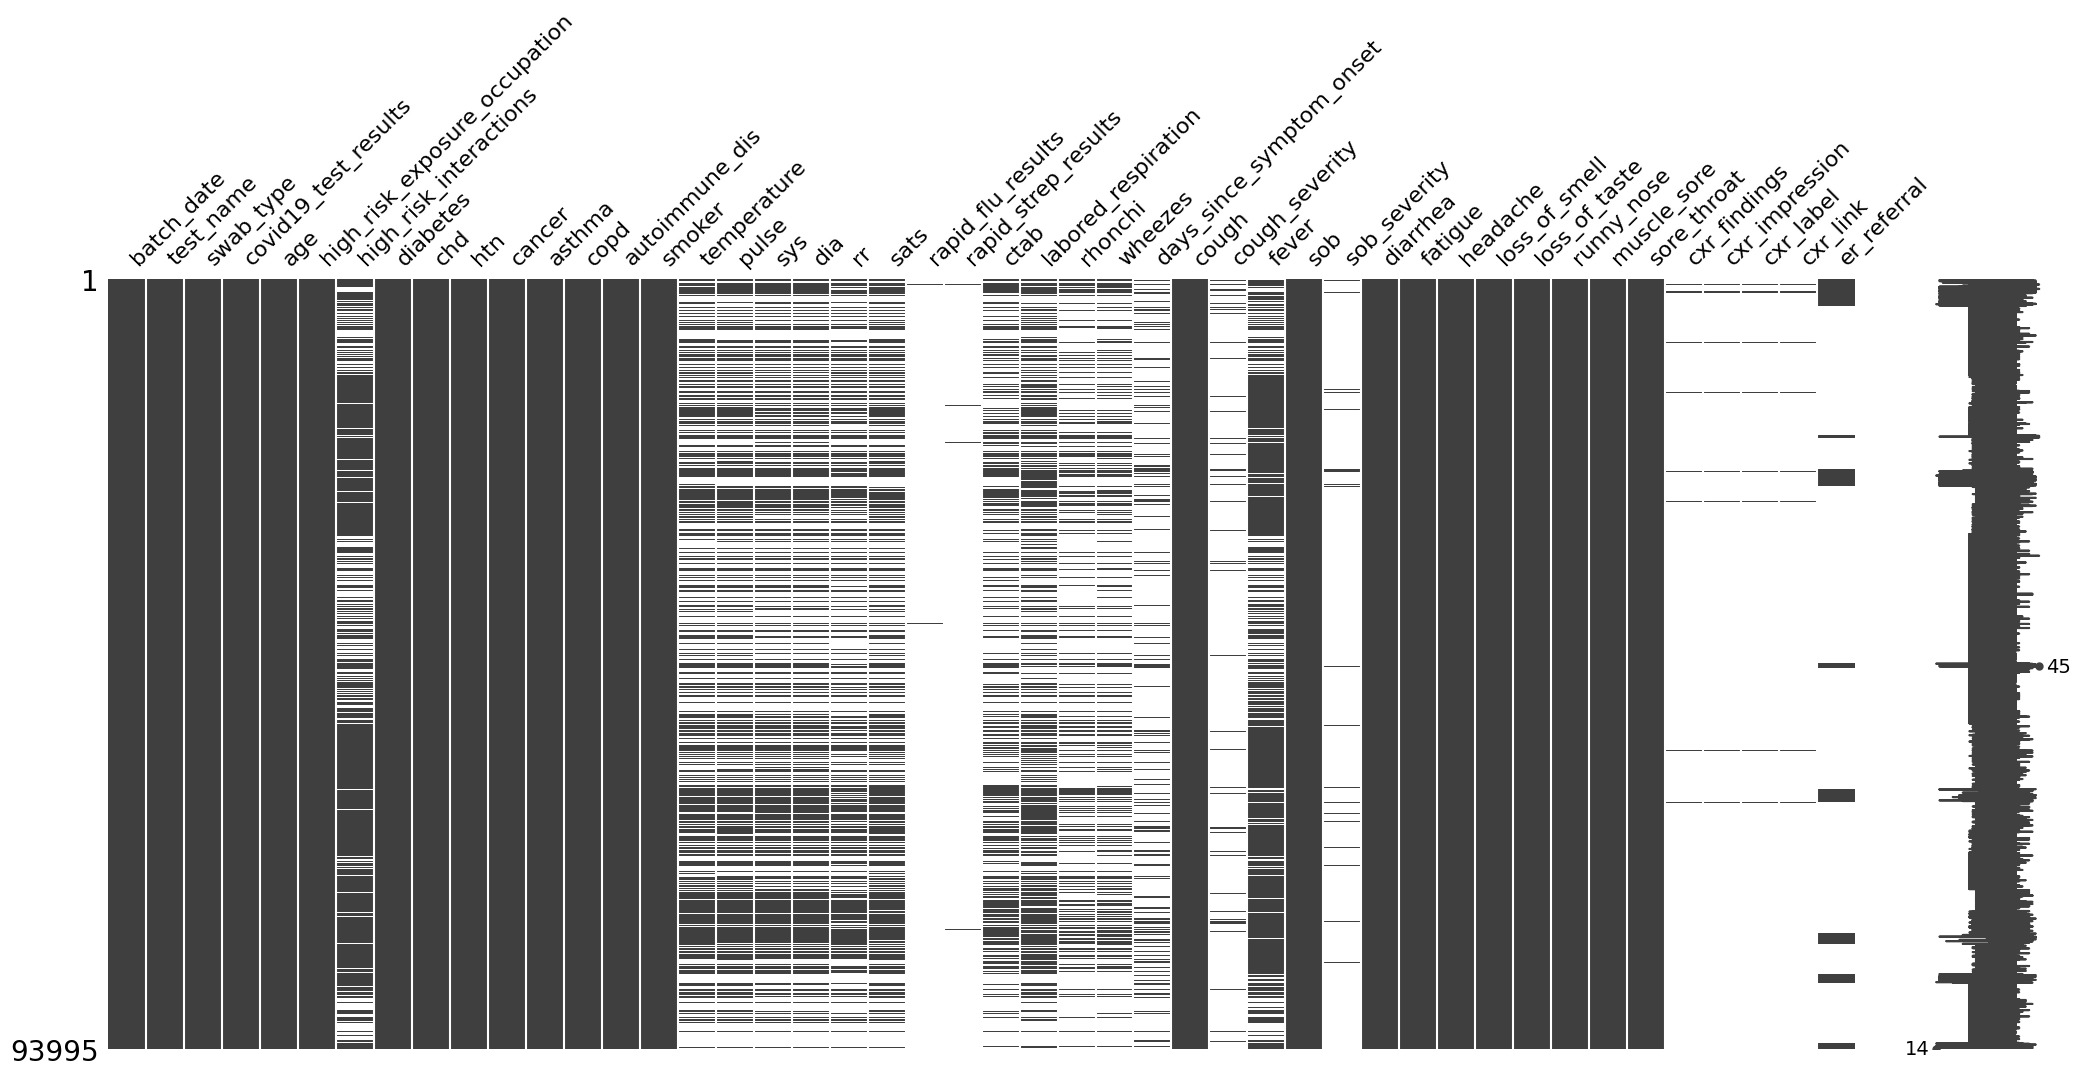
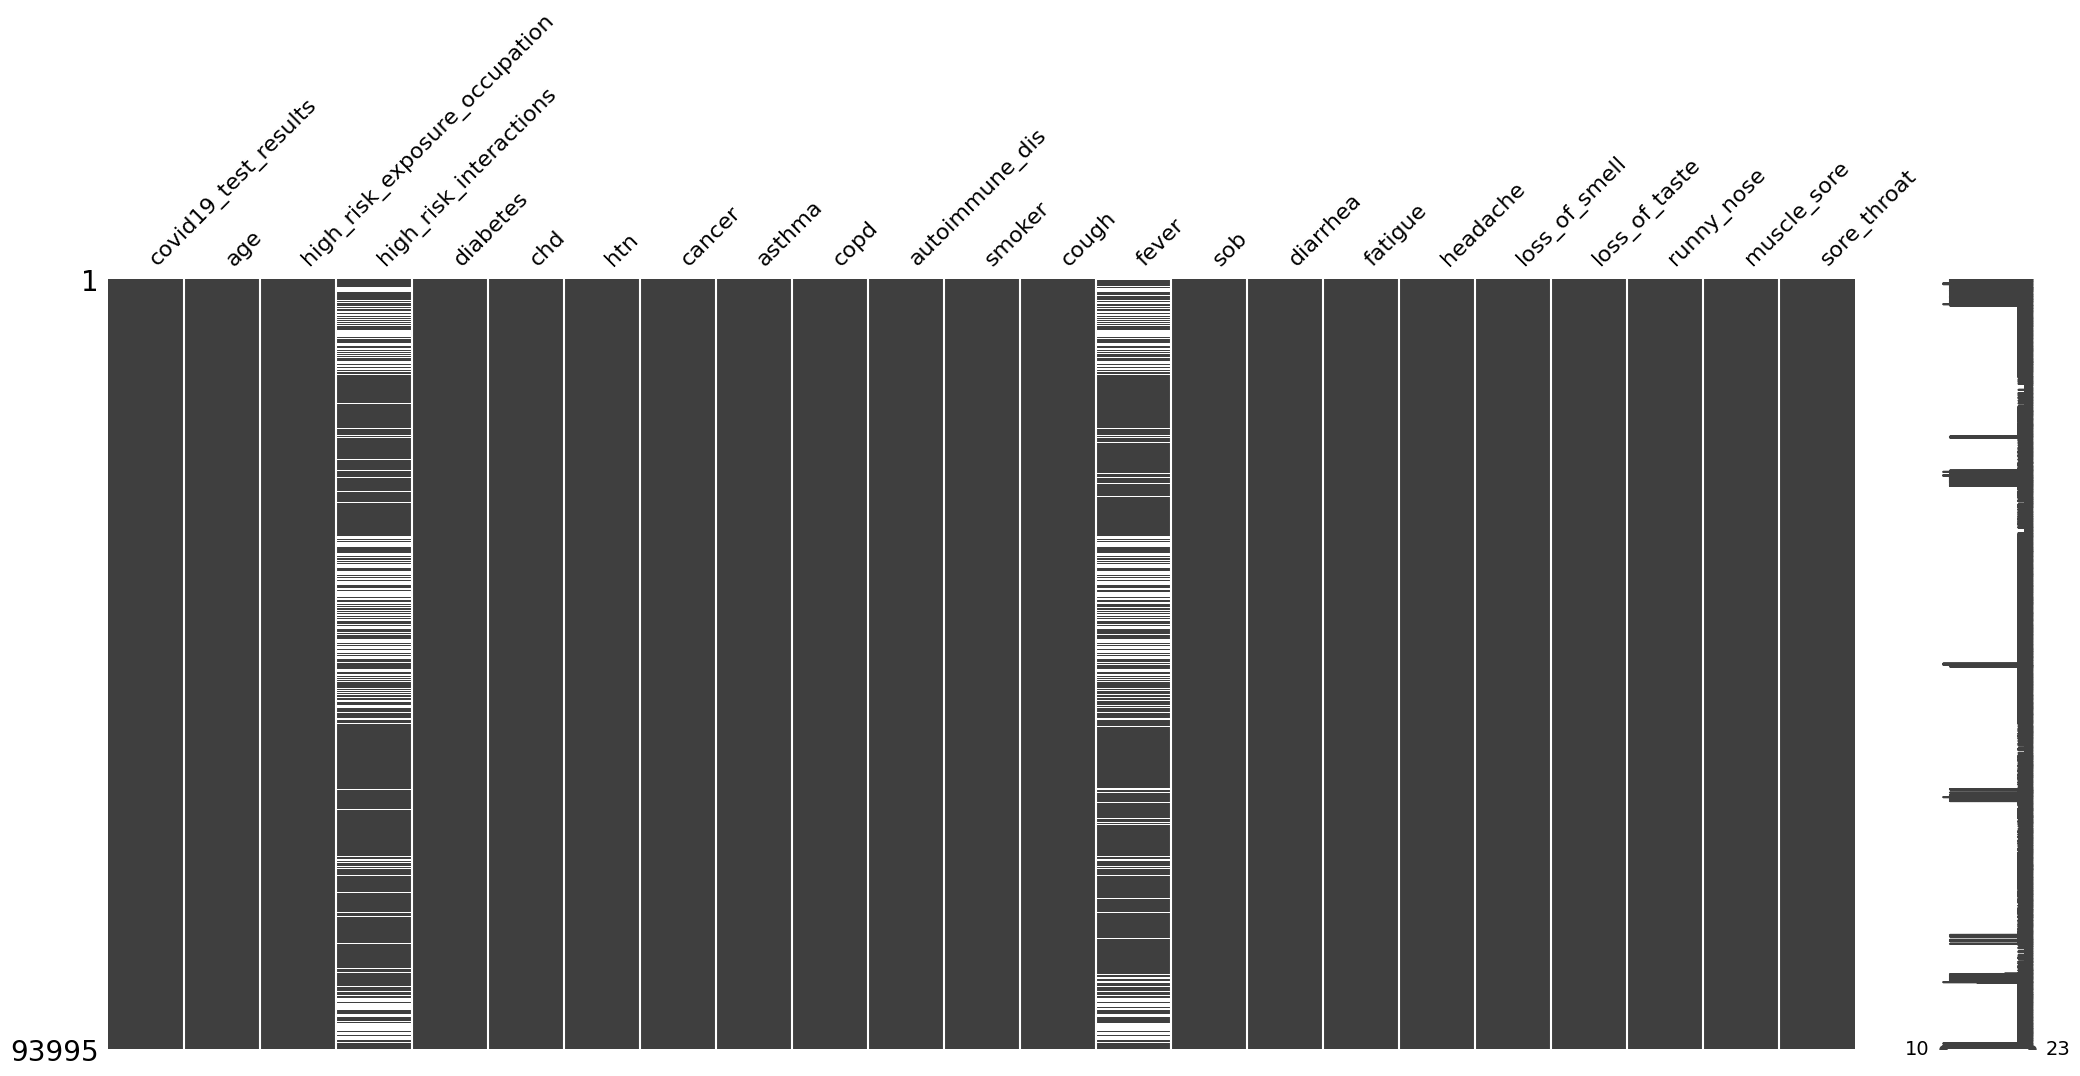
cleaning roughly complete

diff --git a/process-ultimate.py b/process-ultimate.py
@@ -5,57 +5,114 @@ import pandas as pd
 import re
 import numpy as np
 import missingno as msno
-import nltk
 from imblearn.under_sampling import RandomUnderSampler
-from nltk.corpus import stopwords
-from nltk.tokenize import RegexpTokenizer
-from nltk.tokenize import word_tokenize
-from nltk.stem import WordNetLemmatizer
-from nltk.corpus import wordnet
-from scipy.sparse import hstack
-from sklearn.feature_extraction.text import TfidfVectorizer
-from sklearn.decomposition import TruncatedSVD
+from sklearn.preprocessing import LabelEncoder
+from sklearn.preprocessing import OneHotEncoder
+from sklearn.preprocessing import MinMaxScaler
 from sklearn.model_selection import train_test_split
 from sklearn.metrics import mean_squared_error, confusion_matrix
 import seaborn as sns
 import matplotlib.pyplot as plt
 from sklearn.ensemble import RandomForestClassifier
-from sklearn.metrics import mean_squared_error, confusion_matrix
 from sklearn.linear_model import SGDClassifier
 from sklearn.model_selection import GridSearchCV
+import xgboost as xgb
+
 
 # Concatenating Subsets
-path = r'./data/carbon'
-all_files = glob.glob(os.path.join(path, "*.csv"))
-concat_df = pd.concat((pd.read_csv(f) for f in all_files))
-concat_df.to_csv('./data/raw_concatenated.csv', index=False)
+# path = r'./data/carbon'
+# all_files = glob.glob(os.path.join(path, "*.csv"))
+# concat_df = pd.concat((pd.read_csv(f) for f in all_files))
+# concat_df.to_csv('./data/raw_concatenated.csv', index=False)
+
 
 # Loading
 print("Loading data...")
 raw_df = pd.read_csv("./data/raw_concatenated.csv")
 
+
 # Subsetting Columns
-# print("Dropping unnecessary columns...")
-# raw_df = raw_df.drop(columns=['test_date', 'test_indication'])
+print("Dropping unnecessary columns...")
+raw_df = raw_df.drop(columns=['batch_date', 'swab_type', 'test_name', 'temperature', 'pulse', 'sys', 'dia', 'rr', 'sats', 'rapid_flu_results', 'rapid_strep_results',
+'ctab', 'labored_respiration', 'rhonchi', 'wheezes', 'days_since_symptom_onset', 'cough_severity', 'sob_severity', 'cxr_findings', 'cxr_impression', 
+'cxr_label', 'cxr_link', 'er_referral'])
 
-# Handling NA
-print("Handling NA...")
 
-# raw_df = raw_df.replace({'None': np.nan, 'Other': np.nan})
-print(raw_df.head())
+# Analyzing NA Distribution & Count NAs
+print("Analyzing NA values distribution...")
 na_chart = msno.matrix(raw_df)
 na_chart_copy = na_chart.get_figure()
 na_chart_copy.savefig('output/na_chart.png', bbox_inches = 'tight')
 plt.clf()
+# print(raw_df.shape)
+# print(raw_df.isnull().sum())
 
-print(raw_df.isnull().sum())
-print(raw_df.shape)
 
-# raw_df.dropna(inplace=True)
-print(raw_df['covid19_test_results'].value_counts())
+# Converting objects to strings & Lowercasing
+print("Converting to strings & lowercasing...")
+string_col_list = raw_df.drop(columns=['age']).columns
+raw_df[string_col_list] = raw_df[string_col_list].astype(str)
+# don't use .apply(str) ever again. It force-applies a string type, which would include the newline character
+for string_col in string_col_list:
+    raw_df[string_col] = raw_df[string_col].str.lower()
+
+
+# No NAN Encoding
+print("Encoding...")
+bool_col_list = ['high_risk_exposure_occupation', 'high_risk_interactions', 'diabetes', 'chd', 'htn', 'cancer', 'asthma', 'copd', 'autoimmune_dis', 
+'smoker', 'cough', 'fever', 'sob', 'diarrhea', 'fatigue', 'headache', 'loss_of_smell', 'loss_of_taste', 'runny_nose', 'muscle_sore', 'sore_throat']
+raw_df[bool_col_list] = raw_df[bool_col_list].replace({'true': 1, 'false': 0, 'nan': np.nan})
+raw_df['covid19_test_results'] = raw_df['covid19_test_results'].replace({'negative': 0, 'positive': 1, 'nan': np.nan})
+# bad encoders, need reshaping and doesn't work
+# bool_label_encoder = OneHotEncoder(handle_unknown='ignore')
+# bool_label_encoder = bool_label_encoder.fit(raw_df['high_risk_exposure_occupation']) 
+# # did not use fit_transform() because I want encoding to be memorized/to be able to apply the same encoding for different columns of the same values
+# # also good for inverse transform
+# bool_col_list = ['high_risk_exposure_occupation', 'high_risk_interactions', 'diabetes', 'chd', 'htn', 'cancer', 'asthma', 'copd', 'autoimmune_dis', 
+# 'smoker', 'cough', 'fever', 'sob', 'diarrhea', 'fatigue', 'headache', 'loss_of_smell', 'loss_of_taste', 'runny_nose', 'muscle_sore', 'sore_throat']
+# for bool_col in bool_col_list:
+#     raw_df[bool_col] = bool_label_encoder.transform(raw_df[bool_col])
+
+
+# Age Outlier & Scaling
+print("Checking outlier and scaling on Age")
+raw_df.loc[raw_df['age'] < 150]
+min_max_scaler = MinMaxScaler()
+raw_df['age'] = min_max_scaler.fit_transform(raw_df[['age']])
+# use double brackets to get a df format instead of series. This way scalers will work
+
+
+# Converting to Categorical
+print("Converting to Categorical...")
+raw_df[string_col_list] = raw_df[string_col_list].astype("category")
+
+
+# Dropping All Remaining NA
+print("Creating full set for non-XGBoost methods...")
+raw_df_full = raw_df.drop(columns=['high_risk_interactions', 'fever'])
+# raw_df = raw_df.replace({'None': np.nan, 'Other': np.nan})
+raw_df_full.dropna(inplace=True)
+string_col_list_1 = raw_df.drop(columns=['age', 'high_risk_interactions', 'fever']).columns
+raw_df_full[string_col_list_1] = raw_df_full[string_col_list_1].astype(int)
+raw_df_full[string_col_list_1] = raw_df_full[string_col_list_1].astype("category")
+
+
+# Analyzing Distribution of Class Labels
+print("Analyzing distribution of class labels...")
+#print(raw_df['covid19_test_results'].value_counts())
 test_histo = raw_df['covid19_test_results'].hist()
 test_histo_copy = test_histo.get_figure()
 test_histo_copy.savefig('output/test_histo.png', bbox_inches = 'tight')
+
+
+
+# Train/Validation Split
+print("Train/Validation Split...")
+X_train_boost, X_validation_boost, Y_train_boost, Y_validation_boost = train_test_split(raw_df.drop(['covid19_test_results'], axis=1), 
+raw_df['covid19_test_results'], test_size=0.20, random_state=0, stratify=raw_df['covid19_test_results'])
+X_train_full, X_validation_full, Y_train_full, Y_validation_full = train_test_split(raw_df_full.drop(['covid19_test_results'], axis=1), 
+raw_df_full['covid19_test_results'], test_size=0.20, random_state=0, stratify=raw_df_full['covid19_test_results'])
+
 
 # # Undersampling
 # print("Undersampling...")
@@ -75,96 +132,11 @@ test_histo_copy.savefig('output/test_histo.png', bbox_inches = 'tight')
 # raw_df = one_star.append(two_star).append(three_star).append(four_star).append(five_star)
 # print(raw_df['Score'].value_counts())
 
-# '''
-# # Converting objects to strings
-# print("Converting to strings...")
-# raw_df['Summary'] = raw_df['Summary'].apply(str)
-# raw_df['Text'] = raw_df['Text'].apply(str)
-# X_submission['Summary'] = X_submission['Summary'].apply(str)
-# X_submission['Text'] = X_submission['Text'].apply(str)
 
 
-# # Lowercase
-# print("Converting to lowercase...")
-# raw_df['Summary'] = raw_df['Summary'].str.lower()
-# raw_df['Text'] = raw_df['Text'].str.lower()
-# X_submission['Summary'] = X_submission['Summary'].str.lower()
-# X_submission['Text'] = X_submission['Text'].str.lower()
 
-
-# # Punctuation, Special Character & Whitespace (adjusted for stopwords)
-# print("Removing punctuations and special characters...")
-# def fast_rem(my_string):
-#     return(re.sub(r'[^a-z \']', '', my_string).replace('\'', ' '))
-# raw_df['Summary'] = raw_df['Summary'].apply(fast_rem)
-# raw_df['Text'] = raw_df['Text'].apply(fast_rem)
-# X_submission['Summary'] = X_submission['Summary'].apply(fast_rem)
-# X_submission['Text'] = X_submission['Text'].apply(fast_rem)
-
-
-# # Tokenization, Lemmatization
-# print("Tokenization and Lemmatization...")
-# lemmatizer = WordNetLemmatizer()
-# tag_dict = {"J": wordnet.ADJ, "N": wordnet.NOUN, "V": wordnet.VERB, "R": wordnet.ADV}
-# def fast_lemma(sentence):
-#     return (" ".join([lemmatizer.lemmatize(key[0], tag_dict.get(key[1][0], wordnet.NOUN)) for key in nltk.pos_tag(word_tokenize(sentence))]))
-# tk_start = time.perf_counter()
-# raw_df['Summary'] = raw_df['Summary'].apply(fast_lemma)
-# raw_df['Text'] = raw_df['Text'].apply(fast_lemma)
-# X_submission['Summary'] = X_submission['Summary'].apply(fast_lemma)
-# X_submission['Text'] = X_submission['Text'].apply(fast_lemma)
-# tk_stop = time.perf_counter()
-# print("Tokenization and Lemmatization took: " + str(tk_stop-tk_start) + ' seconds')
-
-
-# # Stopword & Noise Removal (Token with length below 2)
-# print("Removing Stopwords...")
-# cachedStopWords = stopwords.words("english")
-# def fast_stop(my_string):
-#     return(' '.join([word for word in my_string.split() if word not in cachedStopWords and len(word) > 2]))
-# raw_df['Summary'] = raw_df['Summary'].apply(fast_stop)
-# raw_df['Text'] = raw_df['Text'].apply(fast_stop)
-# X_submission['Summary'] = X_submission['Summary'].apply(fast_stop)
-# X_submission['Text'] = X_submission['Text'].apply(fast_stop)
-
-
-# # Vectorizer
-# print("Vectorization - Fitting...")
-# vectorizer = TfidfVectorizer(lowercase = False, ngram_range= (1,2), min_df = 5, max_df = 0.9, max_features = 5000).fit(raw_df['Text'])
-# vectorizer_s = TfidfVectorizer(lowercase = False, ngram_range= (1,2), min_df = 5, max_df = 0.9, max_features = 1000).fit(raw_df['Summary'])
-# print("Vectorization - Transforming...")
-# raw_df_vect = vectorizer.transform(raw_df['Text'])
-# X_submission_vect = vectorizer.transform(X_submission['Text'])
-# raw_df_vect_s = vectorizer_s.transform(raw_df['Summary'])
-# X_submission_vect_s = vectorizer_s.transform(X_submission['Summary'])
-# print("Vectorization - Merging Sparse Matrices")
-# raw_df_vect = hstack((raw_df_vect, raw_df_vect_s))
-# X_submission_vect = hstack((X_submission_vect, X_submission_vect_s))
-# print("Vectorization - SVD...")
-# svd_s_time = time.perf_counter()
-# svd = TruncatedSVD(n_components=200, random_state=0)
-# raw_df_vect = svd.fit_transform(raw_df_vect)
-# print(svd.explained_variance_ratio_.sum())
-# X_submission_vect = svd.fit_transform(X_submission_vect)
-# print(svd.explained_variance_ratio_.sum())
-# svd_f_time = time.perf_counter()
-# print('SVD took: ' + str(svd_f_time - svd_s_time) + ' seconds')
-# print("Vectorization - Creating Pandas df...")
-# raw_df_df = pd.DataFrame(raw_df_vect, columns=np.arange(200)).set_index(raw_df.index.values)
-# X_submission_df = pd.DataFrame(X_submission_vect, columns=np.arange(200)).set_index(X_submission.index.values)
-# # raw_df_df = pd.DataFrame(raw_df_vect.toarray(), columns=vectorizer.get_feature_names()).set_index(raw_df.index.values)
-# # X_submission_df = pd.DataFrame(X_submission_vect.toarray(), columns=vectorizer.get_feature_names()).set_index(X_submission.index.values)
-# print("Vectorization - Joining with Original df...")
-# # raw_df and X_submission below contains original columns with tfidf 
-# raw_df = raw_df.join(raw_df_df)
-# X_submission = X_submission.join(X_submission_df)
-
-
-# # Train/Validation Split
-# print("Train/Validation Split...")
-# X_train, X_validation, Y_train, Y_validation = train_test_split(raw_df.drop(['Score'], axis=1), raw_df['Score'], test_size=0.20, random_state=0, stratify=raw_df['Score'])
-
-
+# from sklearn.linear_model import LogisticRegression   
+# Lr = LogisticRegression(class_weight='balanced')
 
 '''
 # Saving to Local
@@ -176,44 +148,9 @@ Y_validation.to_pickle("./data/Y_validation.pkl")
 X_submission.to_pickle("./data/X_submission.pkl")
 '''
 
-
-# Old Functions
 '''
 # time
 tfidf_s_time = time.perf_counter()
 tfidf_f_time = time.perf_counter()
 print('tfidf vectorizer took: ' + str(tfidf_f_time - tfidf_s_time) + ' seconds')
-'''
-
-'''
-# old WordNet lemmatizer, used list comprehension instead, performance similar
-def lemmatize_sentence(sentence):
-    nltk_tagged = nltk.pos_tag(word_tokenize(sentence))  
-    wordnet_tagged = map(lambda x: (x[0], tag_dict.get(x[1][0])), nltk_tagged)
-    lemmatized_sentence = []
-    for word, tag in wordnet_tagged:
-        if len(word) <= 2:
-            continue
-        if tag is None:
-            #if there is no available tag, append the token as is
-            lemmatized_sentence.append(word)
-        else:        
-            #else use the tag to lemmatize the token
-            lemmatized_sentence.append(lemmatizer.lemmatize(word, tag))
-    return " ".join(lemmatized_sentence)
-'''
-
-'''
-# spaCy Tokenization and Lemmatization with noise removal below length 2. Too slow
-nlp = spacy.load('en_core_web_sm', disable=["parser", "ner"]) 
-def fast_lemma(my_string):
-    spacy_form = nlp(my_string)
-    return(" ".join([word.lemma_ for word in spacy_form if len(word) > 2]))
-testtext = fast_lemma(testtext)
-print(testtext)
-t1_start = time.perf_counter()
-X_train['Summary'] = X_train['Summary'].apply(fast_lemma)
-X_train['Text'] = X_train['Text'].apply(fast_lemma)
-t1_stop = time.perf_counter()
-print("Elapsed time during the whole program in seconds:", t1_stop-t1_start) 
 '''
